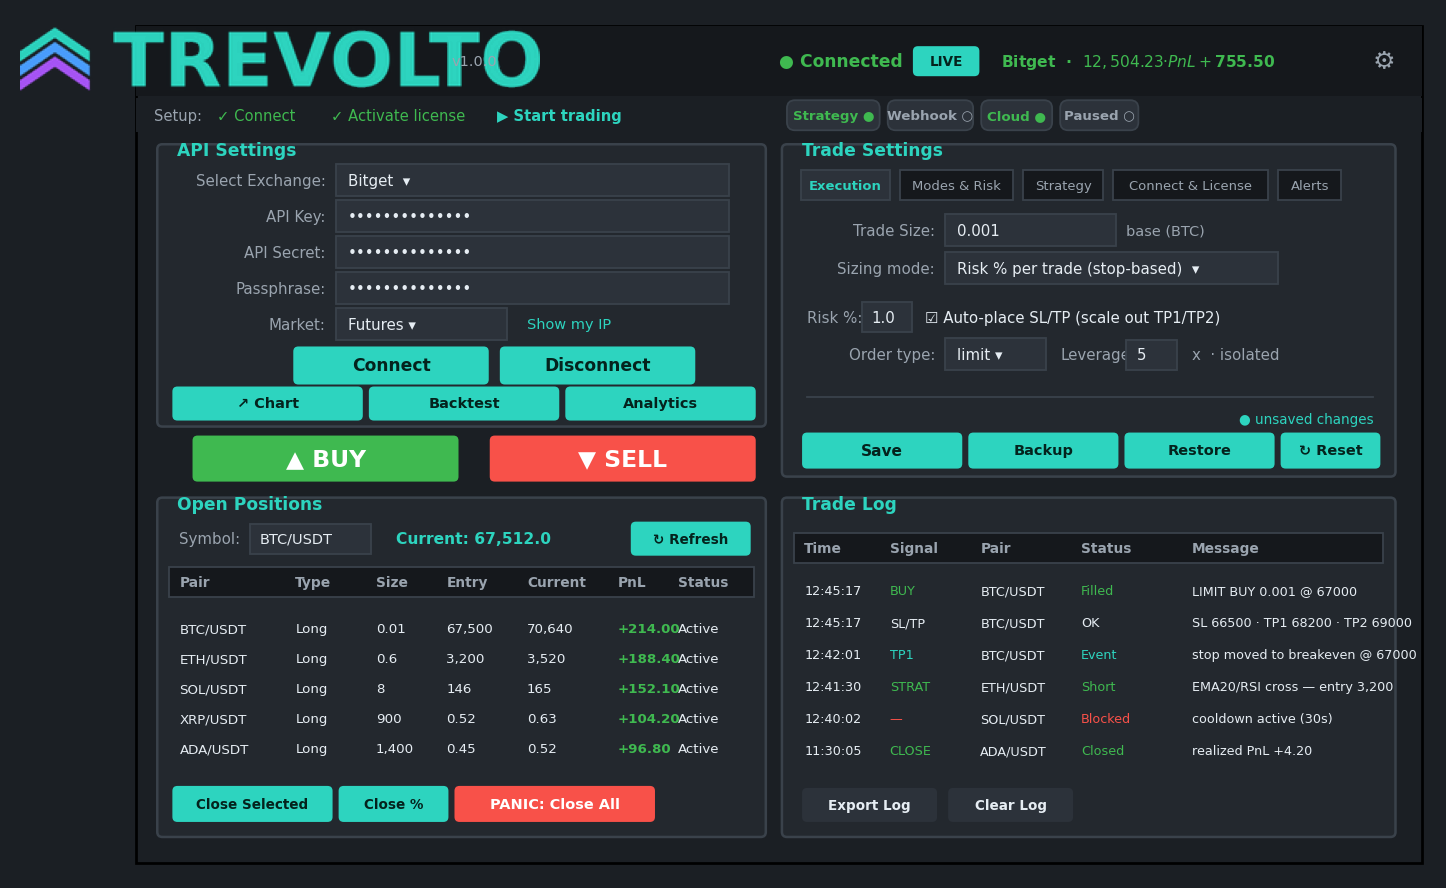
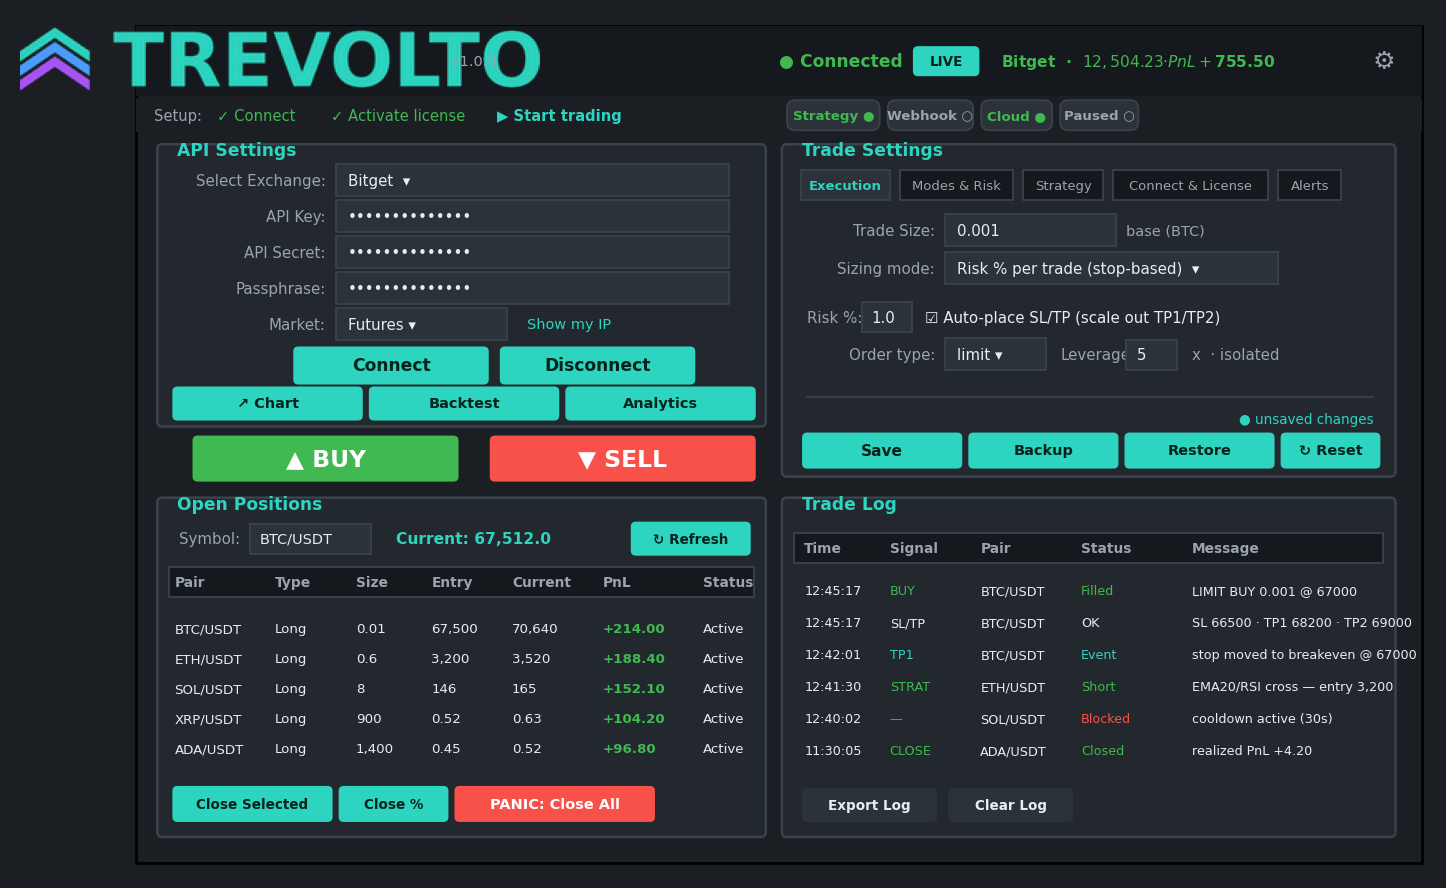
Trevolto: add Facebook cover image (full-HD)
- make_cover.py: fb_cover() generates a 1920x731 Facebook cover (FB 820:312
  ratio) — logo + headline + large app mockup, content kept clear of the
  Page profile-picture corner.
- make_mockup.py: widen PnL<->Status column gap in the positions table;
  regenerated gui_mockup.png.
Output: Trevolto Marketing/social/branding/facebook-cover.png

diff --git a/trevolto/make_cover.py b/trevolto/make_cover.py
@@ -43,7 +43,32 @@ def cover(path, W=1920, H=1080):
     d.text((x+6,H-70),"Illustrative UI. Crypto trading carries risk.",font=font(20,False),fill=DIM)
     im.convert("RGB").save(path,quality=92); print("wrote",os.path.basename(path),im.size)
 
+def fb_cover(path, W=1920, H=731):
+    """Facebook cover (full-HD width at FB's 820:312 ratio): logo + headline +
+    a large, crisp app mockup. Key content kept clear of the bottom-left where
+    the Page profile picture overlaps."""
+    im=Image.new("RGBA",(W,H),SMOKE+(255,))
+    im=Image.alpha_composite(im,glow((W,H),(int(W*0.64),int(H*0.46)),int(H*0.95),TEAL,60))
+    dev=Image.open(os.path.join(HERE,"gui_mockup.png")).convert("RGBA")
+    dw=1020; dev=dev.resize((dw,int(dev.height*dw/dev.width)),Image.LANCZOS)
+    dx=W-dw-60; dy=(H-dev.height)//2
+    im=Image.alpha_composite(im,rounded_shadow((W,H),[dx+18,dy+26,dx+dw+18,dy+dev.height+26],22,34,150))
+    im.alpha_composite(dev,(dx,dy))
+    d=ImageDraw.Draw(im)
+    wm=trim(Image.open(os.path.join(HERE,"trevolto_logo.png")).convert("RGBA"))
+    ww=360; wm=wm.resize((ww,int(wm.height*ww/wm.width)),Image.LANCZOS)
+    x=95; im.alpha_composite(wm,(x,78))
+    d.text((x+4,250),"Crypto trading,",font=font(50),fill=TXT)
+    d.text((x+4,308),"on autopilot",font=font(50),fill=TEAL)
+    d.text((x+6,410),"The bot trades 24/7, hands-free.",font=font(24,False),fill=DIM)
+    d.text((x+6,468),"● Windows & macOS",font=font(24,False),fill=LGREEN)
+    d.text((x+6,H-48),"Illustrative UI. Crypto trading carries risk.",font=font(18,False),fill=DIM)
+    im.convert("RGB").save(path,quality=94); print("wrote",os.path.basename(path),im.size)
+
+
 if __name__=="__main__":
-    if "--sample" in sys.argv: cover(os.path.join(HERE,"cover_sample.png"))
+    if "--sample" in sys.argv:
+        cover(os.path.join(HERE,"cover_sample.png"))
     else:
-        os.makedirs(OUTDIR,exist_ok=True); cover(os.path.join(OUTDIR,"cover-1920x1080.png"))
+        os.makedirs(OUTDIR,exist_ok=True)
+        fb_cover(os.path.join(OUTDIR,"facebook-cover.png"))

diff --git a/trevolto/make_mockup.py b/trevolto/make_mockup.py
@@ -117,7 +117,7 @@ def render(out=OUT, safe=False):
     ax.text(2.7, 3.36, "Current: 67,512.0", fontsize=8.6, fontweight="bold", color=ACCENT, va="center", zorder=4)
     button(5.05, 3.21, 1.15, 0.3, "↻ Refresh", ACCENT, fs=7.5)
     cols = ["Pair", "Type", "Size", "Entry", "Current", "PnL", "Status"]
-    cx = [0.55, 1.7, 2.5, 3.2, 4.0, 4.9, 5.5]
+    cx = [0.5, 1.5, 2.3, 3.05, 3.85, 4.75, 5.75]
     ax.add_patch(Rectangle((0.45, 2.78), 5.8, 0.3, fc=HEADER, ec=BORDER, lw=1, zorder=3))
     for c, x in zip(cols, cx):
         ax.text(x, 2.93, c, fontsize=7.6, fontweight="bold", color=DIM, va="center", zorder=4)
